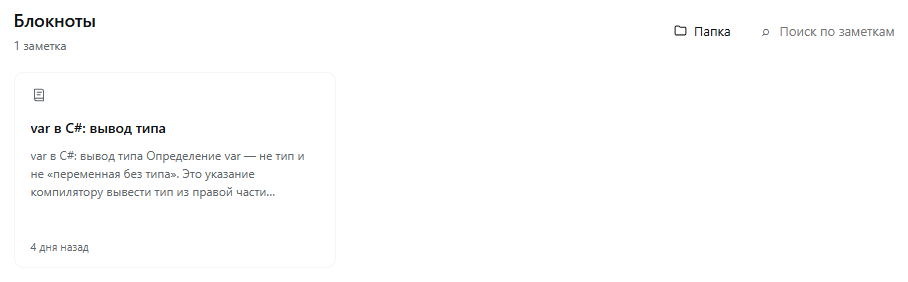
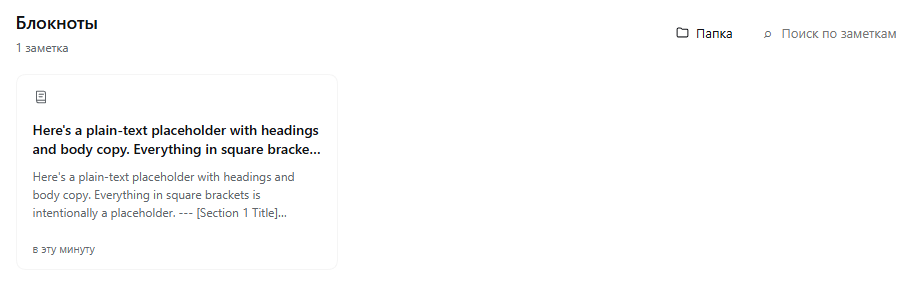
Replace screenshots with placeholder-note captures

diff --git a/README.md b/README.md
@@ -8,8 +8,19 @@ loaded through `cordis.patch.yml` (`dsh.bundle.patch` in package.json).
 ## Screenshots
 
 ![Note view](docs/screenshots/note.png)
+*Note view: table of contents on the left, rendered Markdown with syntax-highlighted code.*
 
 ![Library](docs/screenshots/library.png)
+*Library: every note in one place, with folder and search controls.*
+
+![Note actions](docs/screenshots/note-menu.png)
+*Note actions: pin to the top, open in the right panel, delete.*
+
+![Storage folder](docs/screenshots/note-folder.png)
+*Where the notes live - pick any folder, optionally moving the existing notes.*
+
+![Quote in chat](docs/screenshots/note-in-chat.png)
+*Text selected in a note can be quoted straight into the chat.*
 
 ## Install
 
